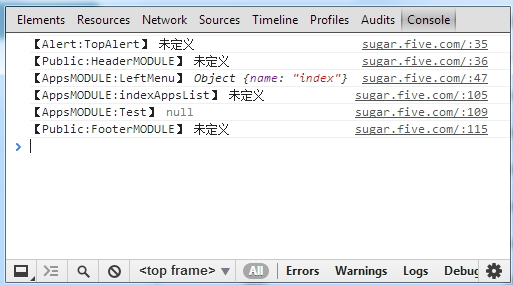
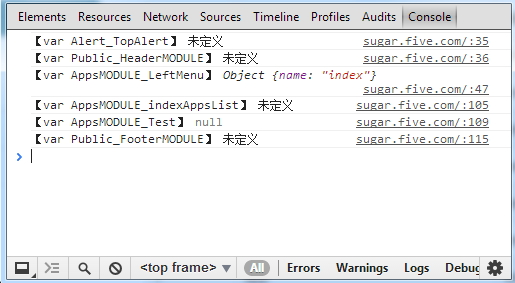
Optimize the debugging info in the console of CHROME

Changed region(s): [[0.0, 0.0, 1.0, 1.0]]

diff --git a/ChigiTemplate.class.php b/ChigiTemplate.class.php
@@ -877,7 +877,7 @@ class ThinkTemplate {
             $packageName = cut_string_using_last('/', cut_string_using_last('/', $templateName, 'left', false), 'right', false);
             $parseStr .= $temp;
             if (substr($pageName, -7) != 'Starter' && substr($pageName, -5) != 'Ender') {
-                $parseStr .= '<script type="text/javascript">(function(){if("undefined" == typeof ' . $packageName . '_' . $pageName . '|| ' . $packageName . '_' . $pageName . ' instanceof HTMLElement){console.log(\'【' . $packageName . ':' . $pageName . '】\',\'未定义\');}else{console.log(\'【' . $packageName . ':' . $pageName . '】\',' . $packageName . '_' . $pageName . ');}})();</script>';
+                $parseStr .= '<script type="text/javascript">(function(){if("undefined" == typeof ' . $packageName . '_' . $pageName . '|| ' . $packageName . '_' . $pageName . ' instanceof HTMLElement){console.log(\'【var ' . $packageName . '_' . $pageName . '】\',\'未定义\');}else{console.log(\'【var ' . $packageName . '_' . $pageName . '】\',' . $packageName . '_' . $pageName . ');}})();</script>';
             }
         }
         return $parseStr;
